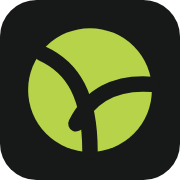
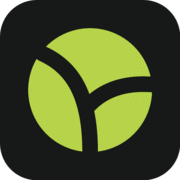
index: end the second volleyball seam where it meets the first
The mark's two seams are separate strokes meant to meet in a three-way
junction.  They do cross, at (30.43, 38.67) in the 64-unit grid, but
the second seam was defined out to (27, 44), radius 13 from the center
and some seven units past the crossing.  It therefore emerged on the
far side of the first seam and curled away into open lime as a hook,
visible everywhere the mark is used and at every size.

Truncate the second seam at the true intersection.  The new control
points come from splitting the original cubic at t=0.8025 with de
Casteljau, so the curve keeps its shape exactly and only stops earlier.
The endpoint lands 0.04px off the first seam's centerline, and since
the round cap's radius equals that seam's stroke half-width, the cap
sits entirely inside the stroke: a flush join, no gap and nothing
protruding.

Redraw the rasters that had baked in the old geometry.  The icon set
comes straight from favicon.svg; og.png is patched through a mask of
just the removed tail, so it changes 27x36 pixels and leaves the rest
of the card byte-identical.

apple-touch-icon.png grows from 7.4K to 13.8K.  The original had been
through a PNG optimizer that isn't installed here; quantizing to 256
colors recovers most of that at 0.27% RMSE.

diff --git a/index.html b/index.html
@@ -197,7 +197,7 @@ html{scroll-behavior:smooth}
     <circle cx="32" cy="32" r="22" fill="var(--lime)"/>
     <g fill="none" stroke="var(--bg)" stroke-width="5.5" stroke-linecap="round">
       <path d="M15 19c11 5 17 15 17 35"/>
-      <path d="M54 30c-13-1-22 4-27 14"/>
+      <path d="M54 30c-10.4-.8-18.3 2.3-23.6 8.7"/>
     </g>
   </symbol>
 </svg>
